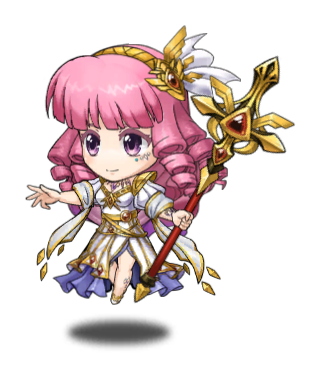
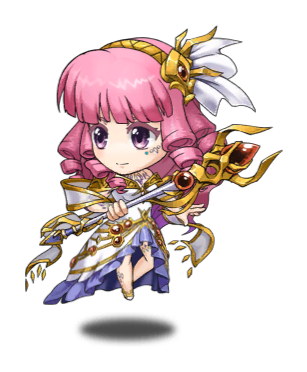
로젠실 툴팁 수정및 SD 변경

diff --git a/hero/data/로젠실.js b/hero/data/로젠실.js
@@ -57,16 +57,16 @@
           "Desc": "2성"
         },
         {
-          "Desc": "받는 범위 피해 <font color=\"red\">-10%</font><br><b>아군에게 스킬 사용 시 디버프 <font color=\"red\">1</font>개 제거 및 <font color=\"red\">1</font>개의 수정 장벽 효과 부여</b> <br> 수정 장벽 : 디버프 1개 면역 누적 가능 최대 5중첩 해제 불가. <br><b>주위 <font color=\"red\">1</font> 칸 안에 있는 모든 아군이 행동 종료 시</b> <br> 로젠실 지력 <font color=\"red\">1</font> 배 수치 생명 회복 및 수정 장벽 1개 획득"
+          "Desc": "받는 범위 피해 <font color=\"red\">-10%</font><br/><b>아군에게 스킬 사용 시 <font color=\"red\">디버프</font> <font color=\"red\">1</font>개 제거 및 <font color=\"red\">1</font>개의 <font color=\"blue\">수정 장벽</font> 효과 부여:</b> <br/><font color=\"red\">디버프</font> 1개 면역 누적 가능 최대 <font color=\"red\">5</font>중첩 <b>해제 불가</b>. <br/><b>주위 <font color=\"red\">1</font> 칸 안에 있는 모든 아군이 행동 종료 시</b> <br/> 로젠실 지력 <font color=\"red\">1</font> 배 수치 생명 회복 및 <font color=\"blue\">수정 장벽</font> 1개 획득"
         },
         {
-          "Desc": "받는 범위 피해 <font color=\"red\">-15%</font><br><b>아군에게 스킬 사용 시 디버프 <font color=\"red\">1</font>개 제거 및 <font color=\"red\">2</font>개의 수정 장벽 효과 부여</b> <br> 수정 장벽 : 디버프 1개 면역 누적 가능 최대 5중첩 해제 불가. <br><b>주위 <font color=\"red\">2</font> 칸 안에 있는 모든 아군이 행동 종료 시</b> <br> 로젠실 지력 <font color=\"red\">1.5</font> 배 수치 생명 회복 및 수정 장벽 1개 획득"
+          "Desc": "받는 범위 피해 <font color=\"red\">-15%</font><br/><b>아군에게 스킬 사용 시 <font color=\"red\">디버프</font> <font color=\"red\">1</font>개 제거 및 <font color=\"red\">2</font>개의 <font color=\"blue\">수정 장벽</font> 효과 부여:</b> <br/><font color=\"red\">디버프</font> 1개 면역 누적 가능 최대 <font color=\"red\">5</font>중첩 <b>해제 불가</b>. <br/><b>주위 <font color=\"red\">2</font> 칸 안에 있는 모든 아군이 행동 종료 시</b> <br/> 로젠실 지력 <font color=\"red\">1.5</font> 배 수치 생명 회복 및 <font color=\"blue\">수정 장벽</font> 1개 획득"
         },
         {
-          "Desc": "받는 범위 피해 <font color=\"red\">-20%</font><br><b>아군에게 스킬 사용 시 디버프 <font color=\"red\">1</font>개 제거 및 <font color=\"red\">2</font>개의 수정 장벽 효과 부여</b> <br> 수정 장벽 : 디버프 1개 면역 누적 가능 최대 5중첩 해제 불가. <br><b>주위 <font color=\"red\">2</font> 칸 안에 있는 모든 아군이 행동 종료 시</b> <br> 로젠실 지력 <font color=\"red\">2</font> 배 수치 생명 회복 및 수정 장벽 1개 획득"
+          "Desc": "받는 범위 피해 <font color=\"red\">-20%</font><br/><b>아군에게 스킬 사용 시 <font color=\"red\">디버프</font> <font color=\"red\">1</font>개 제거 및 <font color=\"red\">2</font>개의 <font color=\"blue\">수정 장벽</font> 효과 부여:</b> <br/><font color=\"red\">디버프</font> 1개 면역 누적 가능 최대 <font color=\"red\">5</font>중첩 <b>해제 불가</b>. <br/><b>주위 <font color=\"red\">2</font> 칸 안에 있는 모든 아군이 행동 종료 시</b> <br/> 로젠실 지력 <font color=\"red\">2</font> 배 수치 생명 회복 및 <font color=\"blue\">수정 장벽</font> 1개 획득"
         },
         {
-          "Desc": "받는 범위 피해 <font color=\"red\">-25%</font><br><b>아군에게 스킬 사용 시 디버프 <font color=\"red\">1</font>개 제거 및 <font color=\"red\">3</font>개의 수정 장벽 효과 부여</b> <br> 수정 장벽 : 디버프 1개 면역 누적 가능 최대 5중첩 해제 불가. <br><b>주위 <font color=\"red\">3</font> 칸 안에 있는 모든 아군이 행동 종료 시</b> <br> 로젠실 지력 <font color=\"red\">2.5</font> 배 수치 생명 회복 및 수정 장벽 1개 획득"
+          "Desc": "받는 범위 피해 <font color=\"red\">-25%</font><br/><b>아군에게 스킬 사용 시 <font color=\"red\">디버프</font> <font color=\"red\">1</font>개 제거 및 <font color=\"red\">3</font>개의 <font color=\"blue\">수정 장벽</font> 효과 부여:</b> <br/><font color=\"red\">디버프</font> 1개 면역 누적 가능 최대 <font color=\"red\">5</font>중첩 <b>해제 불가</b>. <br/><b>주위 <font color=\"red\">3</font> 칸 안에 있는 모든 아군이 행동 종료 시</b> <br/> 로젠실 지력 <font color=\"red\">2.5</font> 배 수치 생명 회복 및 <font color=\"blue\">수정 장벽</font> 1개 획득"
         }
       ]
     }
@@ -355,7 +355,7 @@
         }
       ],
       "IconImageUrl": "../img/skills/Skill_IceBolt.png",
-      "Desc": "[마법 피해]단일 적 부대를 공격해 1.5배의 피해를 준다<br>'창병'에게 더 큰 피해를 준다.",
+      "Desc": "[마법 피해]단일 적 부대를 공격해 1.5배의 피해를 준다<br/>'창병'에게 더 큰 피해를 준다.",
       "SubSkills": null,
       "Animation": null
     },
@@ -369,7 +369,7 @@
         }
       ],
       "IconImageUrl": "../img/skills/Passive_BreakMDef.png",
-      "Desc": "[패시브]전투 진입전 50% 확률로<br>적 마방 -25%, 지속 1행동",
+      "Desc": "[패시브]전투 진입전 50% 확률로<br/>적 마방 -25%, 지속 1행동",
       "SubSkills": null,
       "Animation": null
     },
@@ -383,7 +383,7 @@
         }
       ],
       "IconImageUrl": "../img/skills/Passive_MDefUp.png",
-      "Desc": "[패시브]행동 종료 시 주위 2칸 내 2개 다른 아군 부대의 '받는 피해' -15% 및<br>면역: '방어,마방 감소','치료 방해', 1턴 지속.",
+      "Desc": "[패시브]행동 종료 시 주위 2칸 내 2개 다른 아군 부대의 '받는 피해' -15% 및<br/>면역: '방어,마방 감소','치료 방해', 1턴 지속.",
       "SubSkills": null,
       "Animation": null
     },
@@ -409,7 +409,7 @@
         }
       ],
       "IconImageUrl": "../img/skills/Rozenciel/1.png",
-      "Desc": "[초절강화] 액티브 스킬, 범위 내 모든 '제국의 빛' 아군의 <br>공격, 방어 능력치가 크게 상승하고<br>선공으로 전투 진입시 주는 피해량 +12% 및 <br>피격으로 전투 진입전 적 버프 1개 제거, 4턴 지속.<br>(이효과는 다른 초절강화 스킬과 중첩불가)",
+      "Desc": "[초절강화] 액티브 스킬, 범위 내 모든 '제국의 빛' 아군의 <br/>공격, 방어 능력치가 크게 상승하고<br/><b>선공으로 전투 진입시 주는 피해량 <font color=\"red\">+12</font></b>% 및 <br/><b>피격으로 전투 진입전 적 버프 <font color=\"red\">1</font>개 제거</b>, <font color=\"red\">4</font>턴 지속.<br/>",
       "SubSkills": null,
       "Animation": null
     },
@@ -435,7 +435,7 @@
         }
       ],
       "IconImageUrl": "../img/skills/Skill_FrostRay2.png",
-      "Desc": "[마법 피해] 3개의 라인에 있는 모든 적군을 공격하여 0.36배 범위 피해를 입힌다.<br>'창병'와 전투 시 더 큰 피해를 입힌다. 적군의 이동력 -1, 2턴 지속",
+      "Desc": "[마법 피해] 3개의 라인에 있는 모든 적군을 공격하여 0.36배 범위 피해를 입힌다.<br/>'창병'와 전투 시 더 큰 피해를 입힌다. 적군의 이동력 -1, 2턴 지속",
       "SubSkills": null,
       "Animation": null
     },
@@ -461,7 +461,7 @@
         }
       ],
       "IconImageUrl": "../img/skills/Rozenciel/2.png",
-      "Desc": "[액티브] 단일 개체 지력 3배 수치 치료 및 '수정 치유' 효과 부여 :<br>피격 후 로젠실 지력 1.5배 수치 생명 회복, 지속 2행동",
+      "Desc": "[액티브] <b>단일 개체</b> 지력 <font color=\"red\">3</font>배 수치 치료 및 '<font color=\"blue\">수정 치유</font>' 효과 부여 :<br/>피격 후 로젠실 지력 <font color=\"red\">1.5</font>배 수치 생명 회복, 지속 <font color=\"red\">2</font>행동",
       "SubSkills": null,
       "Animation": null
     },
@@ -487,7 +487,7 @@
         }
       ],
       "IconImageUrl": "../img/skills/Rozenciel/3.png",
-      "Desc": "[액티브]범위 내 아군에게 지력 3배 수치 치료 및 '수정 치유' 효과 부여 : <br>피격 후 로젠실 지력 1.5배 수치 생명 회복, 지속 2행동",
+      "Desc": "[액티브]<b>범위 내 아군에게</b> 지력 <font color=\"red\">3</font>배 수치 치료 및 '<font color=\"blue\">수정 치유</font>' 효과 부여 : <br/><b>피격 후</b> 로젠실 지력 <font color=\"red\">1.5</font>배 수치 생명 회복, 지속 <font color=\"red\">2</font>행동",
       "SubSkills": null,
       "Animation": null
     },
@@ -513,7 +513,7 @@
         }
       ],
       "IconImageUrl": "../img/skills/Skill_PalCrash.png",
-      "Desc": "[지원]액티브 스킬, 범위 내 아군들이 주는 피해량 +15%, 받는 피해량-15%, 2턴 지속.<br>그리고 사용자 지력 3배의 생명을 회복시킨다.",
+      "Desc": "[지원]액티브 스킬, 범위 내 아군들이 주는 피해량 +15%, 받는 피해량-15%, 2턴 지속.<br/>그리고 사용자 지력 3배의 생명을 회복시킨다.",
       "SubSkills": null,
       "Animation": null
     },
@@ -539,7 +539,7 @@
         }
       ],
       "IconImageUrl": "../img/Super/로젠실.png",
-      "Desc": "[변신] 대규모 범위 내 다수의 부대 생명을 로젠실 지력 3배 수치로 회복 및 <br>'수정 치유' 효과 획득<br>([수정 치유] : 피격으로 피해를 입은 후 로젠실 지력 1.5배 수치로 생명 회복, 지속 2행동 )<br>사용 후 '수정 결인' 상태 진입 :<br>([수정 결인] :공격 및 스킬 사용 불가, 스스로 이동 및 위치 변경 불가, <br>치유량 +20%, 받는 피해량 -20%, 고유 스킬 지휘 효과 범위 +1, 1회 부활, <br>행동 종료 시 자신의 고유 스킬 범위 안에 있는 다른 아군을<br>로젠실 지력 2배 수치만큼 회복 및 '수정 장벽' 2개 효과 부여, 지속 2행동<br>수정 결인의 효과는 해제 불가 및 면역 불가, 해당 스킬 지속 시간 동안 불굴 효과는 최대 1회 발동)",
+      "Desc": "[변신]<b>대규모 범위 내 다수의 부대 생명을 로젠실 지력 <font color=\"red\">3</font>배 수치로 회복</b> 및 <br/>'<font color=\"blue\">수정 치유</font>' 효과 획득:<br/><b>피격으로 피해를 입은 후</b> 로젠실 지력 <font color=\"red\">1.5</font>배 수치로 생명 회복, 지속 <font color=\"red\">2</font>행동<br/>사용 후 '<font color=\"blue\">수정 결인</font>' 상태 진입 :<br/><b><font color=\"red\">공격 및 스킬 사용 불가 및 스스로 이동 및 위치 변경 불가</font>(디메리트)</b>, <br/>치유량 <font color=\"red\">+20</font>%, 받는 피해량 <font color=\"red\">-20</font>%, <b><font color=\"purple\">고유 스킬</font> 지휘 효과 범위</b> <font color=\"red\">+1</font>, <font color=\"red\">1</font>회 부활, <br/><b>행동 종료 시 자신의 <font color=\"purple\">고유 스킬</font> 범위 안에 있는 다른 아군을</b><br/>로젠실 지력 <font color=\"red\">2</font>배 수치만큼 회복 및 '<font color=\"blue\">수정 장벽</font>' <font color=\"red\">2</font>개 효과 부여, 지속 <font color=\"red\">2</font>행동<br/>'<font color=\"blue\">수정 결인</font>'의 효과는 <b>해제 불가 및 면역 불가</b>, <br/><b>해당 스킬 지속 시간 동안 <font color=\"blue\">불굴</font> 효과</b>는 최대 <font color=\"red\">1</font>회 발동)",
       "SubSkills": null,
       "Animation": "../img/Super/로젠실.gif"
     }
